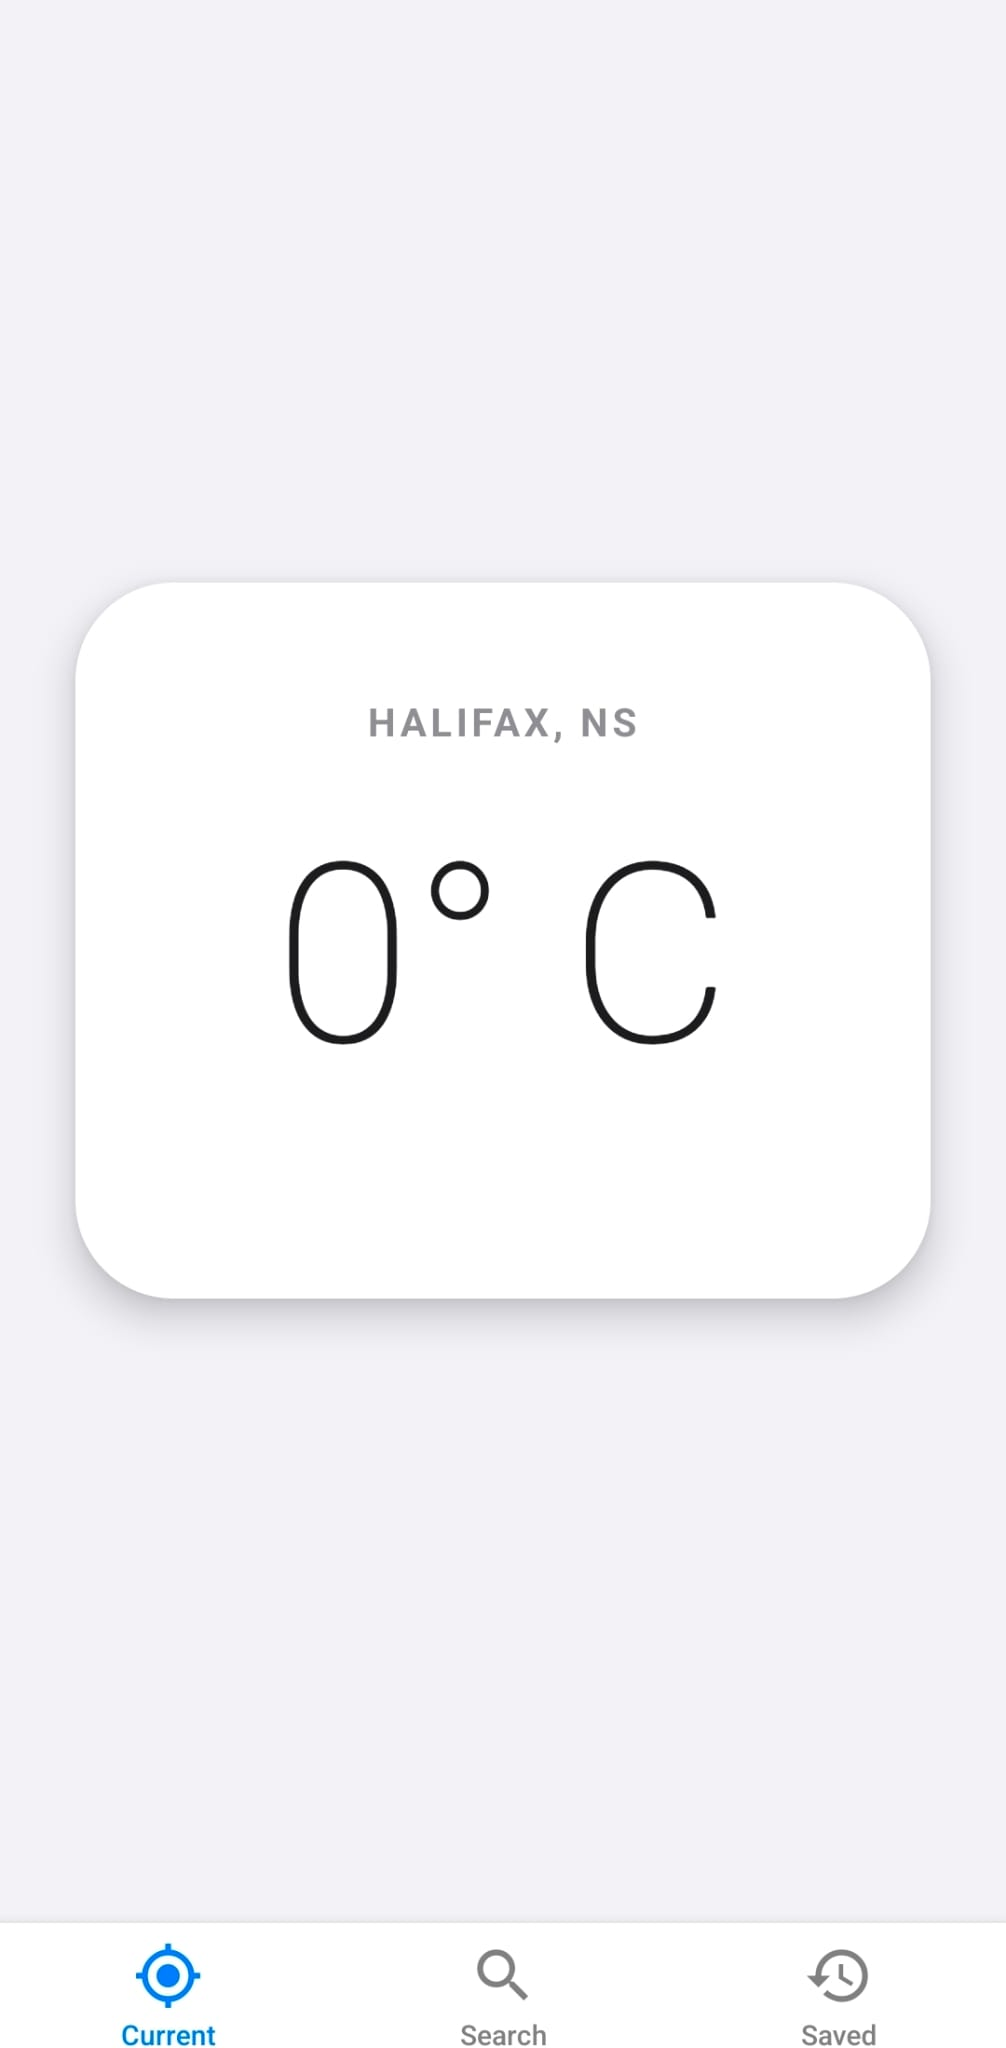
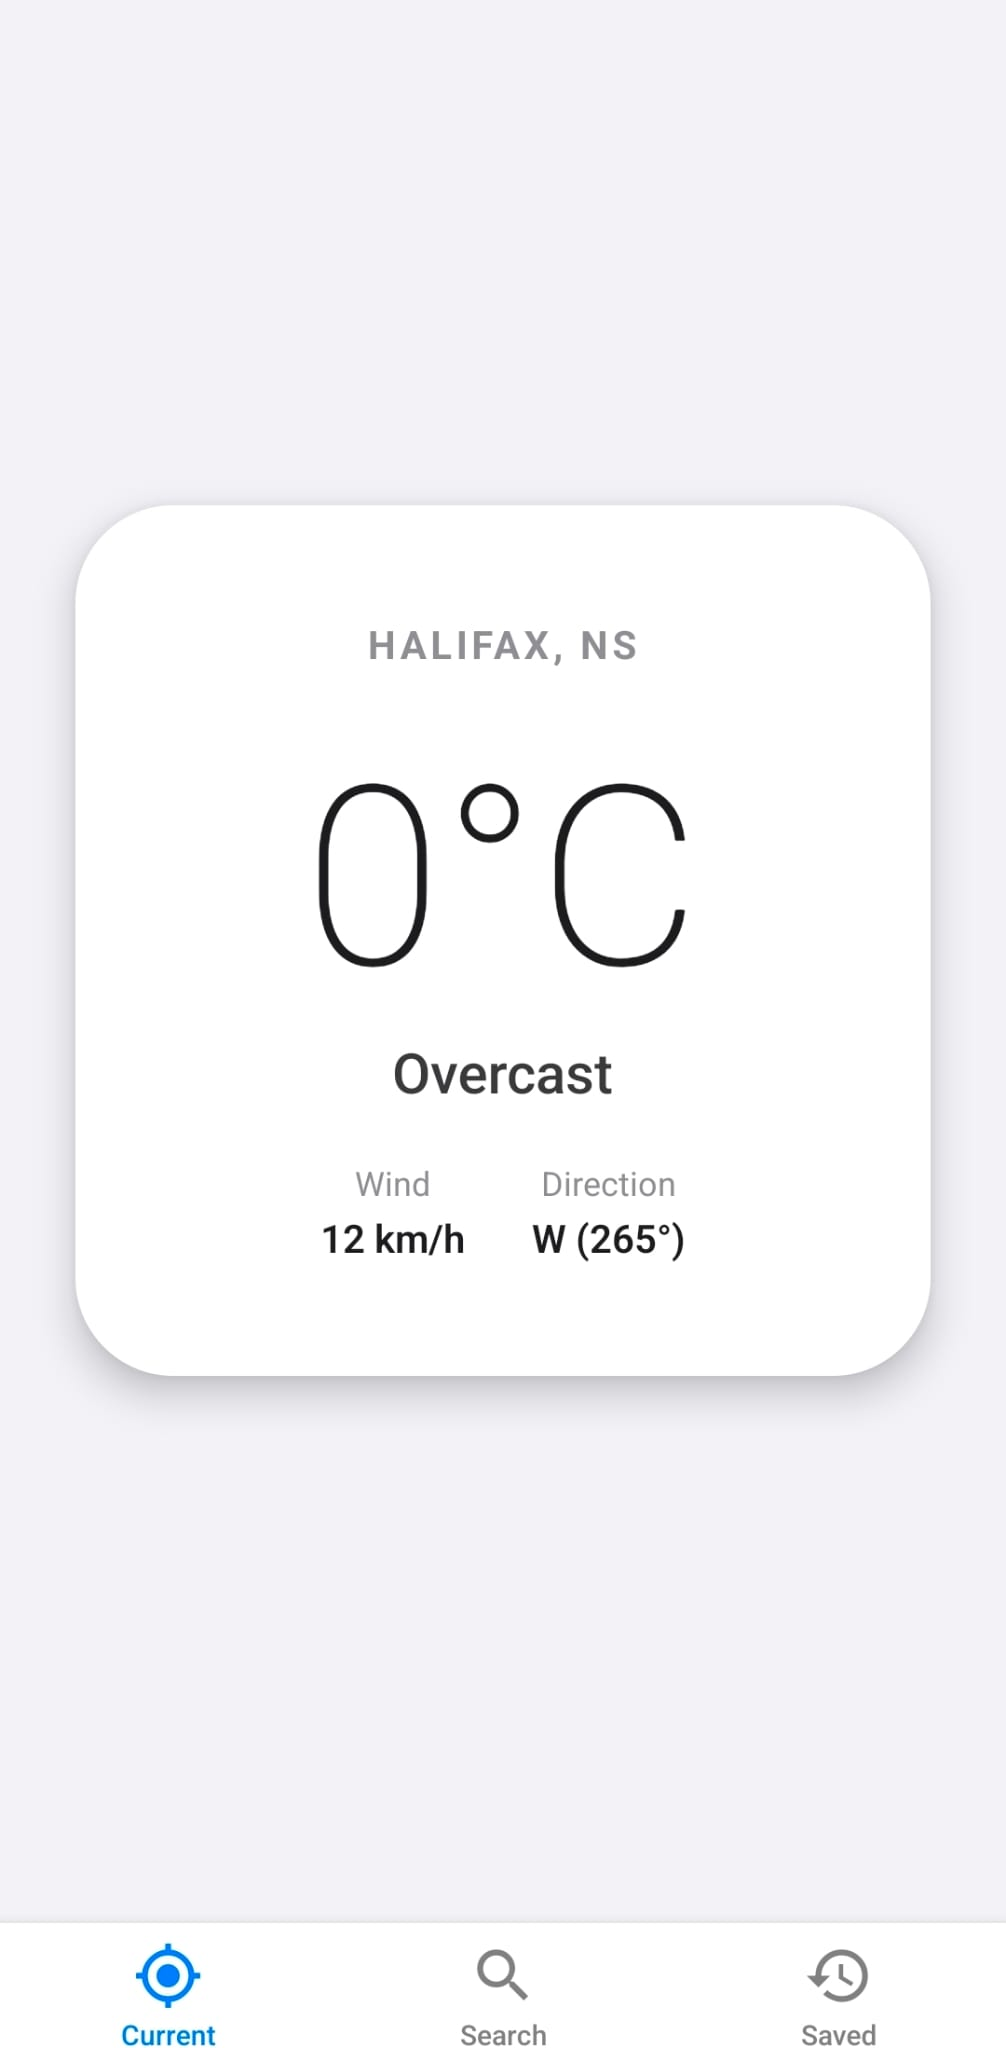
feat: enrich weather details; refresh current screen; fix saved-city lookup

diff --git a/src/screens/SavedLocations.tsx b/src/screens/SavedLocations.tsx
@@ -2,7 +2,7 @@ import React, { useEffect, useState } from 'react';
 import { View, Text, FlatList, StyleSheet, TouchableOpacity, ActivityIndicator } from 'react-native';
 import { useIsFocused } from '@react-navigation/native';
 import { getSavedLocations, deleteCity } from '../services/dbService';
-import { fetchWeather } from '../services/weatherService';
+import { fetchWeather, getCoordinates } from '../services/weatherService';
 import { MaterialIcons } from '@expo/vector-icons';
 
 export default function SavedLocations() {
@@ -13,12 +13,31 @@ export default function SavedLocations() {
   const loadData = async () => {
     setLoading(true);
     const savedCities = await getSavedLocations();
-    const weatherData = await Promise.all(
-      savedCities.map(async (city) => {
-        const w = await fetchWeather(city.lat ?? 0, city.lon ?? 0);
-        return { id: city.id, name: city.name, temp: w.temperature };
-      })
-    );
+    const weatherData = await Promise.all(savedCities.map(async (city) => {
+        let lat = city.lat;
+        let lon = city.lon;
+        // If coordinates are missing, resolve by city name
+        if (lat == null || lon == null) {
+          const resolved = await getCoordinates(city.name);
+          if (resolved) {
+            lat = resolved.lat;
+            lon = resolved.lon;
+          }
+        }
+        if (lat == null || lon == null) {
+          // Skip if still missing; return minimal info
+          return { id: city.id, name: city.name, temp: NaN, condition: 'Unknown', windspeed: NaN, windDirectionCardinal: '—' };
+        }
+        const w = await fetchWeather(Number(lat), Number(lon));
+        return {
+          id: city.id,
+          name: city.name,
+          temp: w.temperature,
+          condition: w.condition,
+          windspeed: w.windspeed,
+          windDirectionCardinal: w.windDirectionCardinal,
+        };
+      }));
     setLocations(weatherData);
     setLoading(false);
   };
@@ -42,7 +61,8 @@ export default function SavedLocations() {
           <View style={styles.cityCard}>
             <View>
               <Text style={styles.cityName}>{item.name}</Text>
-              <Text style={styles.cityTemp}>{Math.round(item.temp)}°C</Text>
+              <Text style={styles.cityTemp}>{isNaN(item.temp) ? '—' : `${Math.round(item.temp)}°C`}</Text>
+              <Text style={styles.cityCondition}>{item.condition} • Wind {Math.round(item.windspeed)} km/h {item.windDirectionCardinal}</Text>
             </View>
             <TouchableOpacity onPress={() => handleDelete(item.id)}>
               <MaterialIcons name="delete-outline" size={24} color="#FF3B30" />
@@ -72,4 +92,5 @@ const styles = StyleSheet.create({
   },
   cityName: { fontSize: 18, fontWeight: '600', color: '#1C1C1E' },
   cityTemp: { fontSize: 22, fontWeight: '300', color: '#007AFF' },
+  cityCondition: { fontSize: 12, color: '#8E8E93', marginTop: 4 },
 });

diff --git a/src/screens/CurrentWeather.tsx b/src/screens/CurrentWeather.tsx
@@ -3,12 +3,14 @@ import { View, Text, StyleSheet, ActivityIndicator, Alert, Platform, Linking, To
 import * as Location from 'expo-location';
 import { fetchWeather } from '../services/weatherService';
 import { SafeAreaView  } from 'react-native-safe-area-context';
+import { useIsFocused } from '@react-navigation/native';
 
 export default function CurrentWeather() {
   const [weather, setWeather] = useState<any>(null);
   const [loading, setLoading] = useState(true);
   const [permissionDenied, setPermissionDenied] = useState(false);
   const [openedSettings, setOpenedSettings] = useState(false);
+  const isFocused = useIsFocused();
 
   const loadWeather = async () => {
     try {
@@ -68,6 +70,14 @@ export default function CurrentWeather() {
     loadWeather();
   }, []);
 
+  // Refresh when navigating back to this screen
+  useEffect(() => {
+    if (isFocused) {
+      setLoading(true);
+      loadWeather();
+    }
+  }, [isFocused]);
+
   useEffect(() => {
     const sub = AppState.addEventListener('change', (state) => {
       if (state === 'active' && openedSettings) {
@@ -105,8 +115,18 @@ export default function CurrentWeather() {
           <ActivityIndicator size="large" color="#007AFF" />
         ) : (
           <View style={{ alignItems: 'center' }}>
-            <Text style={styles.temp}>{Math.round(weather.temperature)}° C</Text>
-            <Text style={styles.condition}>{weather.condition}</Text>
+            <Text style={styles.temp}>{Math.round(weather?.temperature)}°C</Text>
+            <Text style={styles.condition}>{weather?.condition}</Text>
+            <View style={styles.detailsRow}>
+              <View style={styles.detailItem}>
+                <Text style={styles.detailLabel}>Wind</Text>
+                <Text style={styles.detailValue}>{Math.round(weather?.windspeed)} km/h</Text>
+              </View>
+              <View style={styles.detailItem}>
+                <Text style={styles.detailLabel}>Direction</Text>
+                <Text style={styles.detailValue}>{weather?.windDirectionCardinal} ({Math.round(weather?.winddirection)}°)</Text>
+              </View>
+            </View>
           </View>
         )}
       </View>
@@ -135,4 +155,8 @@ const styles = StyleSheet.create({
   settingsBtnText: { color: '#FFFFFF', fontWeight: '600' },
   temp: { fontSize: 90, fontWeight: '200', color: '#1C1C1E' },
   condition: { fontSize: 20, fontWeight: '500', color: '#3A3A3C' },
+  detailsRow: { flexDirection: 'row', marginTop: 18 },
+  detailItem: { alignItems: 'center', marginHorizontal: 12 },
+  detailLabel: { fontSize: 12, color: '#8E8E93' },
+  detailValue: { fontSize: 14, color: '#1C1C1E', fontWeight: '600', marginTop: 2 },
 });

diff --git a/src/screens/SearchWeather.tsx b/src/screens/SearchWeather.tsx
@@ -42,7 +42,7 @@ export default function SearchWeather() {
           <View style={styles.inputWrapper}>
             <TextInput
               style={styles.input}
-              placeholder="Search city (e.g. Tokyo)"
+              placeholder="Search city"
               placeholderTextColor="#8E8E93"
               value={query}
               onChangeText={setQuery}
@@ -65,6 +65,18 @@ export default function SearchWeather() {
           <View style={styles.resultCard}>
             <Text style={styles.cityName}>{weather.name.toUpperCase()}</Text>
             <Text style={styles.temp}>{Math.round(weather.temperature)}°C</Text>
+            <Text style={styles.condition}>{weather.condition}</Text>
+
+            <View style={styles.detailRow}>
+              <View style={styles.detailItem}>
+                <Text style={styles.detailLabel}>Wind</Text>
+                <Text style={styles.detailValue}>{Math.round(weather.windspeed)} km/h</Text>
+              </View>
+              <View style={styles.detailItem}>
+                <Text style={styles.detailLabel}>Direction</Text>
+                <Text style={styles.detailValue}>{weather.windDirectionCardinal} ({Math.round(weather.winddirection)}°)</Text>
+              </View>
+            </View>
 
             <TouchableOpacity style={styles.saveButton} onPress={handleSave}>
               <Text style={styles.saveButtonText}>SAVE TO FAVORITES</Text>
@@ -147,6 +159,16 @@ const styles = StyleSheet.create({
     color: '#1C1C1E',
     marginVertical: 10
   },
+  condition: {
+    fontSize: 16,
+    fontWeight: '500',
+    color: '#3A3A3C',
+    marginBottom: 10
+  },
+  detailRow: { flexDirection: 'row', marginTop: 4, marginBottom: 12 },
+  detailItem: { alignItems: 'center', marginHorizontal: 12 },
+  detailLabel: { fontSize: 12, color: '#8E8E93' },
+  detailValue: { fontSize: 14, color: '#1C1C1E', fontWeight: '600', marginTop: 2 },
   saveButton: {
     marginTop: 20,
     backgroundColor: '#E5E5EA',

diff --git a/src/services/weatherService.ts b/src/services/weatherService.ts
@@ -1,8 +1,57 @@
+// Map Open-Meteo weather codes to human-readable conditions
+const WEATHER_CODE_MAP: Record<number, string> = {
+  0: 'Clear sky',
+  1: 'Mainly clear',
+  2: 'Partly cloudy',
+  3: 'Overcast',
+  45: 'Fog',
+  48: 'Depositing rime fog',
+  51: 'Light drizzle',
+  53: 'Moderate drizzle',
+  55: 'Dense drizzle',
+  56: 'Light freezing drizzle',
+  57: 'Dense freezing drizzle',
+  61: 'Slight rain',
+  63: 'Moderate rain',
+  65: 'Heavy rain',
+  66: 'Light freezing rain',
+  67: 'Heavy freezing rain',
+  71: 'Slight snowfall',
+  73: 'Moderate snowfall',
+  75: 'Heavy snowfall',
+  77: 'Snow grains',
+  80: 'Slight rain showers',
+  81: 'Moderate rain showers',
+  82: 'Violent rain showers',
+  85: 'Slight snow showers',
+  86: 'Heavy snow showers',
+  95: 'Thunderstorm',
+  96: 'Thunderstorm with slight hail',
+  99: 'Thunderstorm with heavy hail',
+};
+
+function codeToCondition(code?: number): string {
+  if (code == null) return 'Unknown';
+  return WEATHER_CODE_MAP[code] ?? 'Unknown';
+}
+
+function degreesToCardinal(deg?: number): string {
+  if (deg == null || isNaN(deg)) return '—';
+  const dirs = ['N','NNE','NE','ENE','E','ESE','SE','SSE','S','SSW','SW','WSW','W','WNW','NW','NNW'];
+  const idx = Math.round(((deg % 360) / 22.5)) % 16;
+  return dirs[idx];
+}
+
 export const fetchWeather = async (lat: number, lon: number) => {
   const url = `https://api.open-meteo.com/v1/forecast?latitude=${lat}&longitude=${lon}&current_weather=true`;
   const response = await fetch(url);
   const data = await response.json();
-  return data.current_weather;
+  const cw = data?.current_weather ?? {};
+  return {
+    ...cw,
+    condition: codeToCondition(cw.weathercode),
+    windDirectionCardinal: degreesToCardinal(cw.winddirection),
+  };
 };
 
 

diff --git a/src/services/dbService.ts b/src/services/dbService.ts
@@ -35,7 +35,7 @@ export const initDatabase = async () => {
 
 export const getSavedLocations = async () => {
   const db = await dbPromise;
-  return await db.getAllAsync<{ id: number; name: string; lat: number | null; lon: number | null }>('SELECT id, name, lat, lon FROM locations');
+  return await db.getAllAsync<{ id: number; name: string; lat: number; lon: number }>('SELECT id, name, lat, lon FROM locations');
 };
 
 export const saveCity = async (name: string, lat: number, lon: number) => {
@@ -54,7 +54,7 @@ export const saveCity = async (name: string, lat: number, lon: number) => {
 // Fetch all saved cities
 export const getSavedCities = async () => {
   const db = await dbPromise;
-  return await db.getAllAsync<{ id: number; name: string; lat: number | null; lon: number | null }>('SELECT id, name, lat, lon FROM locations');
+  return await db.getAllAsync<{ id: number; name: string; lat: number ; lon: number }>('SELECT id, name, lat, lon FROM locations');
 };
 
 // Remove a city by ID

diff --git a/README.md b/README.md
@@ -75,10 +75,11 @@ Screenshots from the Android run:
   </tr>
   <tr>
     <td><img src="screenshots/added_to_fav.jpeg" alt="Added to favorites" width="200" /></td>
+    <td><img src="screenshots/city_not_found.jpeg" alt="Save limit reached" width="200" /></td>
     <td><img src="screenshots/list_of_5_fav.jpeg" alt="List of 5 favorites" width="200" /></td>
-    <td><img src="screenshots/save_limit_reached.jpeg" alt="Save limit reached" width="200" /></td>
   </tr>
   <tr>
+  <td><img src="screenshots/save_limit_reached.jpeg" alt="Save limit reached" width="200" /></td>
     <td><img src="screenshots/list_of_fav_after_delete.jpeg" alt="Favorites after delete" width="200" /></td>
     <td></td>
     <td></td>
